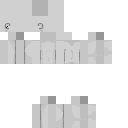
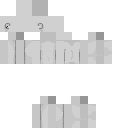
fix 3x2

Changed region(s): [[0.375, 0.0, 0.5, 0.125], [0.0, 0.0, 0.125, 0.125]]

diff --git a/src/routes/skin/panel_left.svelte b/src/routes/skin/panel_left.svelte
@@ -46,7 +46,9 @@
             pickedEyeType=data["eyes"].images.find(d=>d.id==id)?.anim
             loadSkin("eyesc",id+"b");
             if(pickedTexture["brows"])
-                loadSkin("brows",pickedTexture["brows"]);
+                setTimeout(() => {
+                    loadSkin("brows",pickedTexture["brows"]);
+                }, 100);
         }
         else if(cat=="brows")
         {
@@ -58,10 +60,13 @@
         else
             viewer.loadSkin(cat,"/skins/"+tc+"/"+pickedTexture[cat]+".png",{color:getPickedColor(cat),eyeType:pickedEyeType,animatedBrows:isBrowAnimated})
             if(cat=="base")
-        {
-            if(pickedTexture["eyes"])
-            loadSkin("eyes",pickedTexture["eyes"]);
-        }
+            {
+                if(pickedTexture["eyes"])
+                setTimeout(() => {
+                    loadSkin("eyes",pickedTexture["eyes"]);
+                }, 100);
+            
+            }
         saveTemp();
     }
     function pickColor(cat:string,color:ColorRepresentation)

diff --git a/src/lib/skinviewer3d/textureHelper.ts b/src/lib/skinviewer3d/textureHelper.ts
@@ -55,16 +55,16 @@ export function moveEyes(canvas:HTMLCanvasElement,fleshCanvas:HTMLCanvasElement|
     }
     else if(type=="3*2")
     {
-        var G=ctx.getImageData(18,24,3,2)
+        var G=ctx.getImageData(19,24,3,2)
         ctx.putImageData(G,56,8);
-    var D=ctx.getImageData(27,24,4,2)
+    var D=ctx.getImageData(26,24,4,2)
         ctx.putImageData(D,59,8);
   
         if(ctx1){
             //chair cover oeil
-            var p=ctx1.getImageData(18,24,3,2);
+            var p=ctx1.getImageData(19,24,3,2);
             ctx.putImageData(p,56,6)
-            p=ctx1?.getImageData(27,24,3,2);
+            p=ctx1?.getImageData(26,24,3,2);
             ctx?.putImageData(p,59,6)
         }
     }
